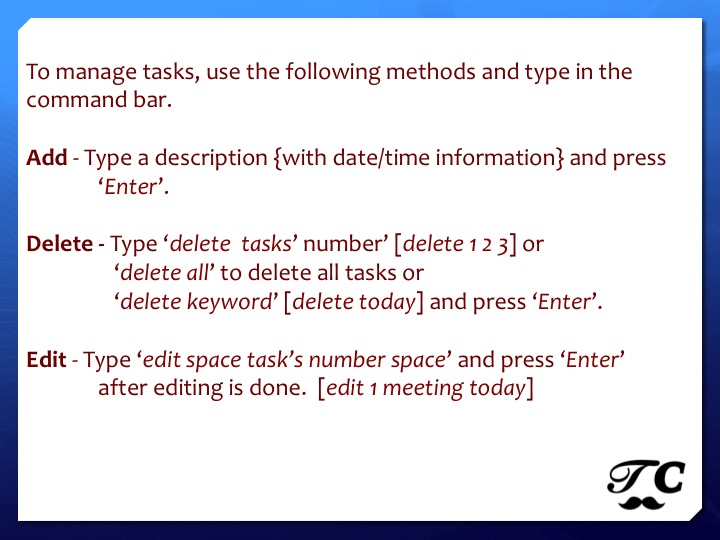
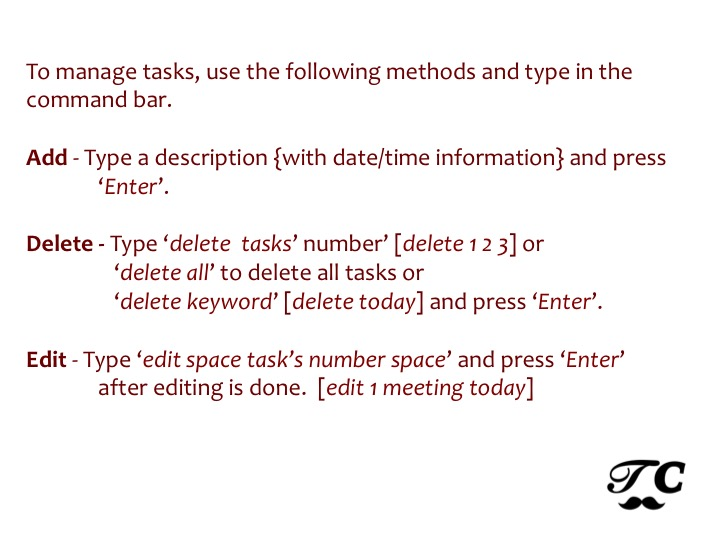
changed help window

Changed region(s): [[0.0, 0.0, 1.0, 1.0]]

diff --git a/task_catalyst/src/main/resources/css/helpTheme.css b/task_catalyst/src/main/resources/css/helpTheme.css
@@ -3,23 +3,11 @@
  */
  
 #exitButton {          
-    -fx-background-image: url("../images/close24.png");
+   
     -fx-background-size: 24.0 24.0;
     -fx-background-repeat: no-repeat;
     -fx-background-position:left;   
     -fx-background-color: transparent;  
-}
-.basicFeatures {          
-    -fx-background-image: url("../images/basic.png");
-}
-.hotkeys {          
-    -fx-background-image: url("../images/hotkeys.png");
-}
-.hashtags {          
-    -fx-background-image: url("../images/hashtag.png");
-}
-.specialFeatures {          
-    -fx-background-image: url("../images/special.png");
 }
 #programTitle{
 	-fx-image: url("../images/title.png");
@@ -30,12 +18,12 @@
 }
 
 .tab-header-background{
-	-fx-background-color: black;
+	-fx-background-color: lightgray;
 }
 
 /* GUI Interface background colour */
 .theme {
     master-color: gray;
-    -fx-background-color: gold;
-    -fx-font-size: 14.0px;
+    -fx-background-color: lightgray;
+    -fx-font-size: 12.0px;
 }

diff --git a/task_catalyst/src/main/java/moustachio/task_catalyst/TaskCatalyst.java b/task_catalyst/src/main/java/moustachio/task_catalyst/TaskCatalyst.java
@@ -77,7 +77,7 @@ public class TaskCatalyst extends Application implements HotKeyListener {
 	@Override
 	public void start(Stage primaryStage) {
 		this.primaryStage = primaryStage;
-
+		//primaryStage.getIcons().add(new javafx.scene.image.Image(this.getClass().getResource(SYSTEM_TRAY_IMAGE_PATH).toExternalForm()));
 		try {
 			loadSystemTray(this.primaryStage);
 			startHotKeys();

diff --git a/task_catalyst/src/main/java/moustachio/task_catalyst/UIController.java b/task_catalyst/src/main/java/moustachio/task_catalyst/UIController.java
@@ -9,7 +9,6 @@ import java.io.IOException;
 import java.text.SimpleDateFormat;
 import java.util.Date;
 import java.util.List;
-
 import javafx.application.Platform;
 import javafx.beans.value.ChangeListener;
 import javafx.beans.value.ObservableValue;
